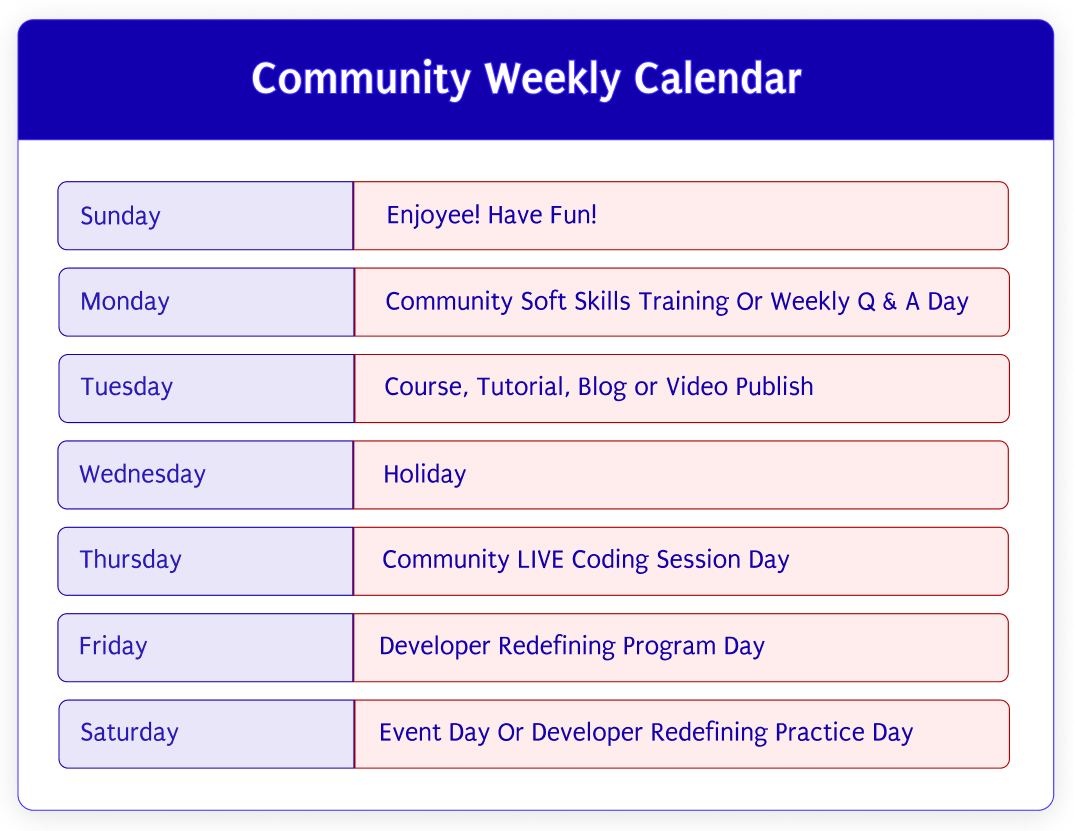
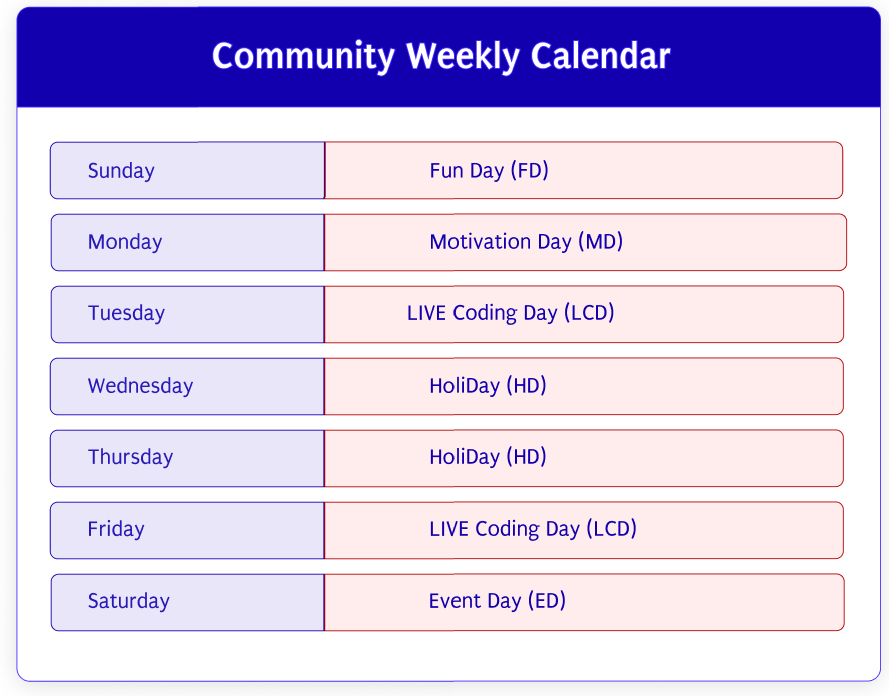
Updated membership calender and redefining program

Changed region(s): [[0.0, 0.0, 1.0, 0.9957], [0.2126, 0.0603, 0.7593, 0.1207]]

diff --git a/pages/membership.html b/pages/membership.html
@@ -22,16 +22,13 @@ page_name: membership
   <!-- pricing -->
   <div class="pricing section-padding">
     <div class="container">
-      <div class="row">
-        <div class="col-md-3 col-12">
+      <div class="row justify-content-center">
+        <div class="col-md-4 col-12">
           <div class="card-img-wrapper shadow-lg">
             <h1 class="caption">
-              Boost your <span class="fw-bold">Career Growth and Success</span>
-              with Best plans.
+              Boost your <span class="fw-bold">Knowledge, Career Growth and Success</span>
+              with <span class="fw-bold">the Best membership</span> plan.
             </h1>
-            <h3 class="sub-caption">
-              Plans for both KNOWLEDGE looking and JOB seeking people.
-            </h3>
             <div class="right-arrow mb-hide">
               <i class="fa-solid fa-arrow-right text-white"></i>
             </div>
@@ -40,10 +37,10 @@ page_name: membership
             <img src="{{ site.asset_base_url }}/img/membership-bg-img.jpg" class="img-fluid shadow" alt="Dhanu Sir Membership">
           </div>
         </div>
-        <div class="col-md-3 col-12">
+        <div class="col-md-4 col-12">
           <div class="card-member-wrapper shadow-lg">
             <h2 class="caption">
-              <i class="fa-regular fa-user"></i> General Member
+              <i class="fa-regular fa-user"></i> Community Member
             </h2>
             <div class="sub-caption">
               What You'll Get
@@ -57,23 +54,19 @@ page_name: membership
               </li>
               <li class="feature-item">
                 <i class="fa-solid fa-circle-check"></i>
-                Priority to FREE Courses, Paid Workshops and Bootcamp
+                Receive FREE Courses First
               </li>
               <li class="feature-item">
                 <i class="fa-solid fa-circle-check"></i>
-                Discount to PAID Courses
+                Discount to PAID Courses, and Trainings
               </li>
               <li class="feature-item">
                 <i class="fa-solid fa-circle-check"></i>
-                Access to Weekly LIVE Coding
+                Access to 2 Days Weekly LIVE Coding
               </li>
               <li class="feature-item">
                 <i class="fa-solid fa-circle-check"></i>
-                Monthly Industry Expert LIVE
-              </li>
-              <li class="feature-item">
-                <i class="fa-solid fa-circle-check"></i>
-                Monthly Inner Personality & Soft Skills Training
+                Access to Industry Expert LIVE Session
               </li>
               <li class="feature-item">
                 <i class="fa-solid fa-circle-check"></i>
@@ -94,7 +87,7 @@ page_name: membership
             </h2>
           </div>
         </div>
-        <div class="col-md-3 col-12">
+        <!-- <div class="col-md-3 col-12">
           <div class="card-member-wrapper shadow-lg">
             <h2 class="caption">
               <i class="fa-solid fa-circle-user"></i> Premium Member
@@ -155,7 +148,7 @@ page_name: membership
               <span>Best plan to prepare to get <strong>JOB or Intership.</strong></span>
             </h2>
           </div>
-        </div>
+        </div> -->
       </div>
     </div>
   </div>
@@ -220,26 +213,26 @@ page_name: membership
     <div class="container">
       <div class="row justify-content-center">
         <div class="col-md-7">
+          <h3 class="section-subheading text-start mb-0">
+            So, you want to maximize your chance of getting JOB? Join
+          </h3>
           <h1 class="section-heading text-start">
             Developer Redefining Program
           </h1>
-          <h3 class="section-subheading text-start">
-            Redefine yourself to maximize your chance of getting JOB or Internship.
-          </h3>
           <p class="mb-0 fw-semibold text-secondary">
-            Program Investment Amount: Rs 10,000
+            Program Investment Amount: Rs 4,999 Only
           </p>
           <ul class="features">
             <li class="feature-item">
               <i class="fa-solid fa-check"></i>
               <span class="feature-item-txt">
-                6 Weeks Intensive Program
+                4 Weeks Growth Mindset Program (2 Days / Week)
               </span>
             </li>
             <li class="feature-item">
               <i class="fa-solid fa-check"></i>
               <span class="feature-item-txt">
-                Learn from Dedicated LIVE Sessions
+                Learn from Private Recorded Sessions
               </span>
             </li>
             <li class="feature-item">
@@ -248,7 +241,7 @@ page_name: membership
             </li>
             <li class="feature-item">
               <i class="fa-solid fa-check"></i>
-              Access to Pair Programming Sessions
+              Pair Programming with Mentor
             </li>
             <li class="feature-item">
               <i class="fa-solid fa-check"></i>
@@ -256,7 +249,7 @@ page_name: membership
             </li>
             <li class="feature-item">
               <i class="fa-solid fa-check"></i>
-              Gain Warrior Attitude
+              Learn to Gain Warrior Attitude
             </li>
             <li class="feature-item">
               <i class="fa-solid fa-check"></i>
@@ -288,13 +281,6 @@ page_name: membership
         <div class="col-md-7">
           <img src="{{ site.asset_base_url }}/img/community-calender.png"
             class="img-fluid" alt="Dhanu Sir Community Calender">
-        </div>
-      </div>
-      <div class="row justify-content-center">
-        <div class="col-md-6">
-          <p class="note">
-            Paid Trainings can happen at any day of the Week.
-          </p>
         </div>
       </div>
     </div>

diff --git a/_sass/_membership.scss b/_sass/_membership.scss
@@ -24,9 +24,7 @@
 
   .pricing {
     .container {
-      .col-md-3 {
-        width: 30%;
-
+      .col-md-4 {
         .card-img-wrapper {
           background-color: $color-primary;
           border-radius: 20px 20px 0 0;
@@ -35,22 +33,16 @@
 
           .caption {
             font-weight: 300;
-            font-size: 2rem;
-            line-height: 46px;
-          }
-          .sub-caption {
-            font-weight: 400;
-            font-size: 1.2rem;
-            line-height: 28px;
-            color: $color-tertiary;
+            font-size: 1.8rem;
+            line-height: 40px;
           }
           .right-arrow {
             text-align: right;
 
             i {
               display: block;
-              margin-top: -10px;
-              font-size: 3rem;
+              margin-top: 0;
+              font-size: 2.8rem;
             }
           }
         }
@@ -82,9 +74,9 @@
             .feature-item {
               display: flex;
               gap: 8px;
-              line-height: 24px;
+              line-height: 28px;
               font-weight: 300;
-              margin-bottom: 12px;
+              margin-bottom: 14px;
 
               i {
                 display: inline-block;
@@ -98,8 +90,8 @@
           }
           .dotted-line {
             border: 1px dashed #444;
-            margin-top: 16px;
-            margin-bottom: 28px;
+            margin-top: 24px;
+            margin-bottom: 38px;
           }
           .price {
             padding-left: 10px;
@@ -195,9 +187,10 @@
     background-color: #F2F7FF;
 
     .section-subheading {
-      font-size: 18px;
+      font-size: 20px;
       color: $color-secondary;
       font-weight: 300;
+      margin-bottom: 0;
     }
     .features {
       margin-top: 2rem;
@@ -380,7 +373,7 @@
       padding-bottom: 2.5rem;
 
       .container {
-        .col-md-3 {
+        .col-md-4 {
           width: auto;
           margin-bottom: 3rem;
         }
@@ -399,6 +392,9 @@
       }
     }
     .redefined-member {
+      .section-heading {
+        font-size: 2.5rem;
+      }
       .img-bg {
         transform: scale(0.8);
         margin-top: 0;
